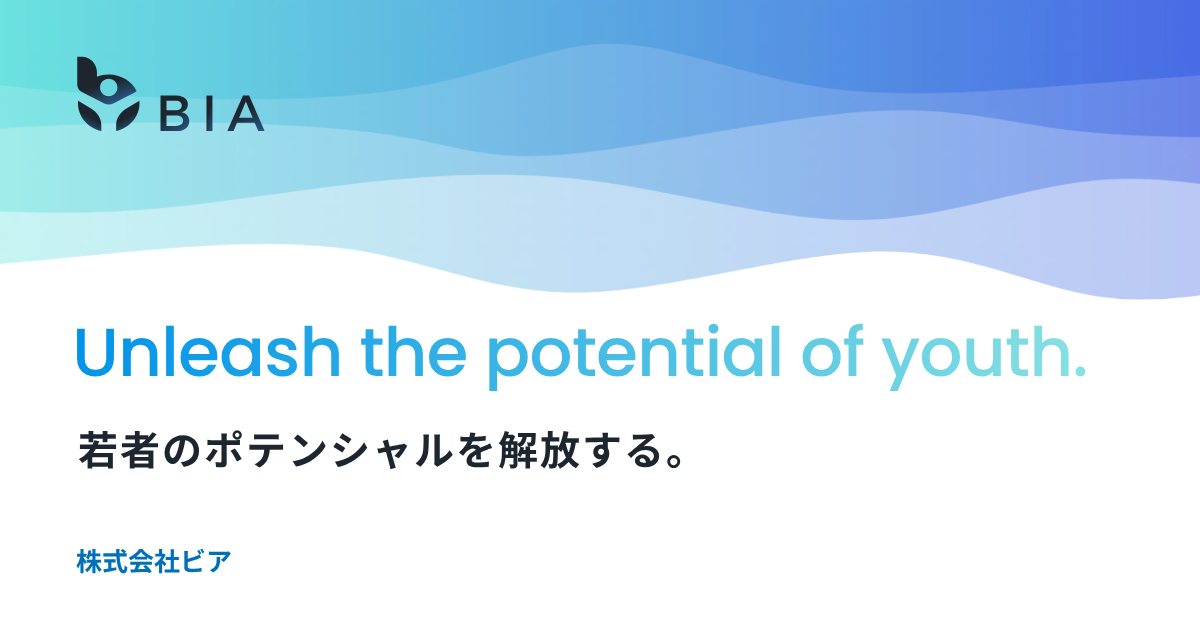
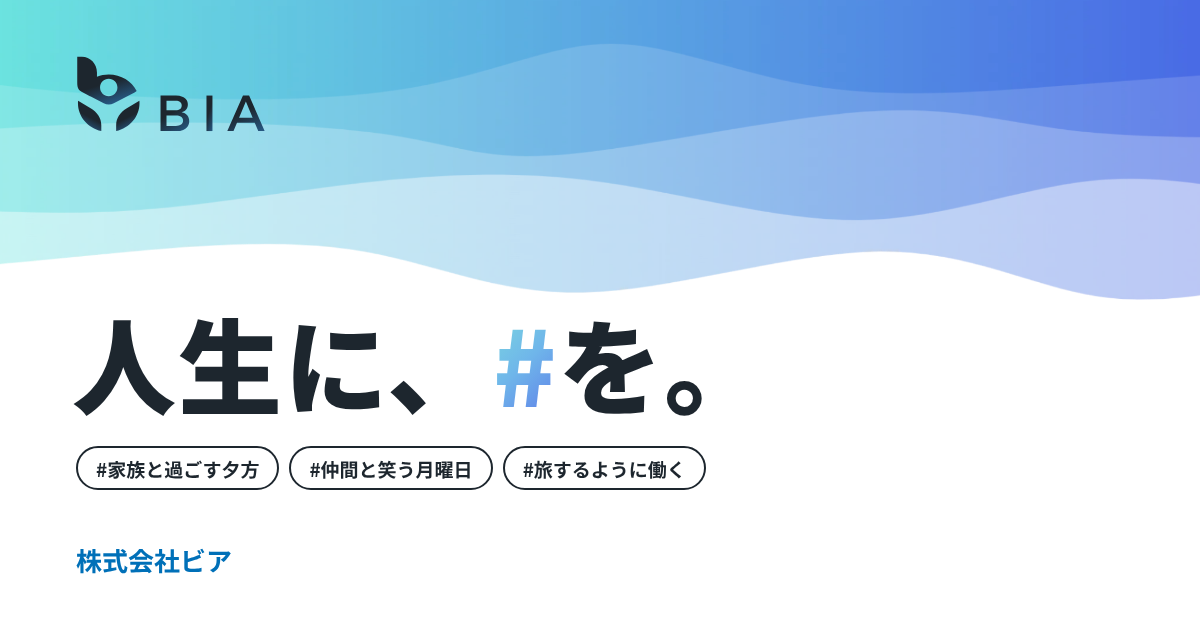
パーパス・ビジョン・ミッションを新しくする（人生に、#を。／Open market, open you.／地図は渡す。…）
- assets/philosophy.js：パーパス → ビジョン → ミッションの順。見出しと添える文、パーパスのハッシュタグ 3 つ（タグの見た目）、「#」はグラデーション
- 会社のトップの一番上・オープニング・会社概要の PURPOSE（前の長い説明の文は消す）・採用の PHILOSOPHY を新しい文に（assets/philosophy.css）
- 手で合わせる 3 か所：タブの名前「株式会社ビア｜人生に、#を。」・会社概要の meta・会社用 OGP
- 前のパーパス（若者のポテンシャルを解放する／Unleash the potential of youth.）をサイトから消す
- DESIGN-SPEC.md 16・17 章・HANDOFF.md

Claude-Session: https://claude.ai/code/session_01PMMetS7xVfNc5fbuo4o25V

Changed region(s): [[0.0617, 0.4825, 0.925, 0.7841]]

diff --git a/index.html b/index.html
@@ -3,13 +3,13 @@
 <head>
 <meta charset="utf-8">
 <meta name="viewport" content="width=device-width, initial-scale=1">
-<title>株式会社ビア｜若者のポテンシャルを解放する</title>
+<title>株式会社ビア｜人生に、#を。</title>
 <meta name="robots" content="noindex, nofollow">
 <meta name="description" content="株式会社ビアは、新卒・20代の就職・転職支援サービス「ハッシュタグ」と、企業向けの人材紹介・採用コンサルティングを行っています。">
 <link rel="canonical" href="https://bia-career.com/">
 <meta property="og:type" content="website">
 <meta property="og:site_name" content="株式会社ビア">
-<meta property="og:title" content="株式会社ビア｜若者のポテンシャルを解放する">
+<meta property="og:title" content="株式会社ビア｜人生に、#を。">
 <meta property="og:description" content="株式会社ビアは、新卒・20代の就職・転職支援サービス「ハッシュタグ」と、企業向けの人材紹介・採用コンサルティングを行っています。">
 <meta property="og:url" content="https://bia-career.com/">
 <meta property="og:image" content="https://bia-career.com/assets/ogp-bia.png">
@@ -26,6 +26,7 @@
 <link rel="stylesheet" href="/assets/header.css">
 <link rel="stylesheet" href="/assets/bia.css">
 <link rel="stylesheet" href="/assets/svc-card.css">
+<link rel="stylesheet" href="/assets/philosophy.css">
 <!-- オープニング（DESIGN-SPEC.md 16 章）。描く前に覆うため <head> で読む -->
 <script src="/assets/config.js"></script>
 <script src="/assets/intro-bia.js"></script>
@@ -54,19 +55,22 @@
   </div>
 </header>
   <div class="fv-copy">
-    <!-- 一番上はパーパス（文は assets/philosophy.js）。オープニングは下の日本語の行に入れ替わる -->
-    <h1 class="co-purpose"><span class="co-purpose-en" lang="en" data-philo="purpose-en">Unleash the potential of youth.</span><span class="co-purpose-ja" data-philo="purpose">若者のポテンシャルを解放する。</span></h1>
+    <!-- 一番上はパーパス（文は assets/philosophy.js）。オープニングはこの見出しに入れ替わる -->
+    <p class="co-en" lang="en">PURPOSE</p>
+    <h1 class="co-purpose" data-philo="purpose" data-philo-hash>人生に、<span class="g-hash">#</span>を。</h1>
+    <p class="philo-tags co-purpose-tags" data-philo="purpose-tags"><span class="tag">#家族と過ごす夕方</span><span class="tag">#仲間と笑う月曜日</span><span class="tag">#旅するように働く</span></p>
+    <p class="co-purpose-text" data-philo="purpose-text">人生に#があると、働くことは物語になる。</p>
   </div>
 </div>
 <main>
 <section id="philosophy">
   <div class="wrap">
     <div class="sec-head"><p class="en-big" aria-hidden="true">PHILOSOPHY</p><h2>私たちの考え方</h2></div>
-    <!-- 文は assets/philosophy.js の 1 か所で直す（採用ページにも同じ文が出る） -->
+    <!-- 文は assets/philosophy.js の 1 か所で直す（会社概要・採用ページにも同じ文が出る）。並びはパーパス → ビジョン → ミッション -->
     <dl class="co-philo">
-      <div class="card"><dt><span class="en" lang="en">PURPOSE</span>パーパス</dt><dd><span data-philo="purpose">若者のポテンシャルを解放する。</span><span class="co-philo-en" lang="en" data-philo="purpose-en">Unleash the potential of youth.</span></dd></div>
-      <div class="card"><dt><span class="en" lang="en">MISSION</span>ミッション</dt><dd data-philo="mission">一人ひとりの「叶えたい未来」を言葉にし、そこへ近づくキャリアを一緒につくる。</dd></div>
-      <div class="card"><dt><span class="en" lang="en">VISION</span>ビジョン</dt><dd data-philo="vision">20代が「自分の #」で仕事を選ぶのが、当たり前の社会へ。</dd></div>
+      <div class="card"><dt><span class="en" lang="en">PURPOSE</span>パーパス</dt><dd><p class="philo-h" data-philo="purpose" data-philo-hash>人生に、<span class="g-hash">#</span>を。</p><p class="philo-tags" data-philo="purpose-tags"><span class="tag">#家族と過ごす夕方</span><span class="tag">#仲間と笑う月曜日</span><span class="tag">#旅するように働く</span></p><p class="philo-t" data-philo="purpose-text">人生に#があると、働くことは物語になる。</p></dd></div>
+      <div class="card"><dt><span class="en" lang="en">VISION</span>ビジョン</dt><dd><p class="philo-h" lang="en" data-philo="vision">Open market, open you.</p><p class="philo-t" data-philo="vision-text">知らないから、選べなかった。見えないから、あきらめていた。<br>市場がひらけば、あなたはもっと遠くへ行ける。</p></dd></div>
+      <div class="card"><dt><span class="en" lang="en">MISSION</span>ミッション</dt><dd><p class="philo-h" data-philo="mission">地図は渡す。背中も押す。旅は、あなたが選ぶ。</p><p class="philo-t" data-philo="mission-text">求人の裏側も、自分の市場価値も、全部伝える。そのうえで決めるのは、いつもあなた。</p></dd></div>
     </dl>
   </div>
 </section>

diff --git a/company.html b/company.html
@@ -5,7 +5,7 @@
 <meta name="viewport" content="width=device-width, initial-scale=1">
 <title>会社概要｜株式会社ビア</title>
 <meta name="robots" content="noindex, nofollow">
-<meta name="description" content="株式会社ビアの会社概要。若者のポテンシャルを解放する。新卒・20代の就職・転職支援サービス「ハッシュタグ」を運営しています。">
+<meta name="description" content="株式会社ビアの会社概要。人生に、#を。新卒・20代の就職・転職支援サービス「ハッシュタグ」を運営しています。">
 <link rel="icon" href="/assets/hashtag-icon.svg" type="image/svg+xml">
 <link rel="icon" href="/assets/favicon-32.png" sizes="32x32" type="image/png">
 <link rel="apple-touch-icon" href="/assets/apple-touch-icon.png">
@@ -13,14 +13,14 @@
 <meta property="og:type" content="article">
 <meta property="og:site_name" content="株式会社ビア">
 <meta property="og:title" content="会社概要｜株式会社ビア">
-<meta property="og:description" content="株式会社ビアの会社概要。若者のポテンシャルを解放する。新卒・20代の就職・転職支援サービス「ハッシュタグ」を運営しています。">
+<meta property="og:description" content="株式会社ビアの会社概要。人生に、#を。新卒・20代の就職・転職支援サービス「ハッシュタグ」を運営しています。">
 <meta property="og:url" content="https://bia-career.com/company.html">
 <meta property="og:image" content="https://bia-career.com/assets/ogp-bia.png">
 <meta property="og:locale" content="ja_JP">
 <meta name="twitter:card" content="summary_large_image">
 <link href="https://fonts.googleapis.com/css2?family=Noto+Sans+JP:wght@400;700;900&family=Poppins:wght@400;500;600&display=swap" rel="stylesheet">
 <style>
-/* 会社概要（BIA）のページ。一番上の「Unleash the potential of youth.」は 2026-11 に会社のトップへ移した。ここは波・ロゴ → パーパスから始まる */
+/* 会社概要（BIA）のページ。波・ロゴ → パーパス（文は assets/philosophy.js）から始まる */
 :root{--navy:#1D262E;--caret:#6FD6E6;--caret-on-white:#0093E9;--ink:#1D262E;--sub:#4A5560;--muted:#5F6B76;--bg2:#F3F6F8;--line:#E3EAEF;
   --g-text:linear-gradient(90deg,#0093E9 0%,#87E1E1 100%)}
 *{box-sizing:border-box}
@@ -105,6 +105,7 @@ body{background:#F4F6F8}
 <link rel="preload" href="/assets/fonts/jetbrains-mono-latin-500-normal.woff2" as="font" type="font/woff2" crossorigin>
 <link rel="stylesheet" href="/assets/header.css">
 <link rel="stylesheet" href="/assets/svc-card.css">
+<link rel="stylesheet" href="/assets/philosophy.css">
 </head>
 <body>
 <div class="fv">
@@ -133,9 +134,12 @@ body{background:#F4F6F8}
 <section id="purpose" style="padding-top:clamp(120px,12vw,160px)">
   <div class="wrap">
     <div class="sec-head"><p class="en-big" aria-hidden="true">PURPOSE</p><h2>パーパス</h2></div>
-    <!-- パーパスの文は assets/philosophy.js（全サイトで 1 か所） -->
-    <p class="vision" data-philo="purpose">若者のポテンシャルを解放する。</p>
-    <p class="body">私たちは、若者が持つ無限の可能性に光を当て、それを解放するために存在しています。各々が持つユニークな才能やスキルを見出し、育て、そして若者一人ひとりを適切な場所に導くことで、若者自身も社会もより良い未来を築くことができると信じています。私たちの役割は、単に仕事を紹介すること以上に、若者一人ひとりがその真の力を理解し、活かせるよう支援することです。この存在意義のもとで、私たちは情熱を持って取り組んでまいります。</p>
+    <!-- パーパスの文は assets/philosophy.js（全サイトで 1 か所）。前の長い説明の文は 2026-11 に消した -->
+    <div class="philo-lg">
+      <p class="philo-h" data-philo="purpose" data-philo-hash>人生に、<span class="g-hash">#</span>を。</p>
+      <p class="philo-tags" data-philo="purpose-tags"><span class="tag">#家族と過ごす夕方</span><span class="tag">#仲間と笑う月曜日</span><span class="tag">#旅するように働く</span></p>
+      <p class="philo-t" data-philo="purpose-text">人生に#があると、働くことは物語になる。</p>
+    </div>
   </div>
 </section>
 <section id="service" class="alt">

diff --git a/assets/intro-bia.js b/assets/intro-bia.js
@@ -1,10 +1,10 @@
 // 会社のトップ（index.html）のオープニング。決まりは docs/DESIGN-SPEC.md 16 章
-// - 白い画面に BIA のロゴがふわっと出る → パーパス（若者のポテンシャルを解放する。）を水色のカーソルで 1 文字ずつ打ち込む → その文字が一番上の日本語の行へ動いて入れ替わる（約 3 秒）
+// - 白い画面に BIA のロゴがふわっと出る → パーパス（人生に、#を。）を水色のカーソルで 1 文字ずつ打ち込む → その文字が一番上の見出しへ動いて入れ替わる（約 3 秒）
 // - assets/config.js の BIA_INTRO：'type'（出す）／'off'（出さない）
 // - 同じタブで 1 回だけ（sessionStorage。使えないときは出さない）。同じサイトから来た・戻ったときは出さない
 // - 画面を押す・キーを押すとすぐ飛ばす。動きを減らす設定・JS が動かないときは出さない。3.5 秒を超えて止めない
 // - /?intro=1 で強制で見られる
-// 打ち込む文字はパーパス（.co-purpose-ja・2026-11 にビジョンから変更）。その行と同じ大きさ・同じ幅・同じ改行で作り、縮めて真ん中に置く。最後は縮めたのを戻すだけなので、改行がずれない
+// 打ち込む文字はパーパス（h1.co-purpose。文は assets/philosophy.js）。「#」は見出しと同じグラデーションで打つ。その行と同じ大きさ・同じ幅・同じ改行で作り、縮めて真ん中に置く。最後は縮めたのを戻すだけなので、改行がずれない
 // このファイルは <head> で読む（ページが描かれる前に、地の色で覆うため。覆いは site.css の html.intro-on）
 (function () {
   var root = document.documentElement;
@@ -42,7 +42,7 @@
 
   function start() {
     if (done) return;
-    var h1 = document.querySelector('.co-purpose-ja');
+    var h1 = document.querySelector('.co-purpose');
     if (!h1 || Date.now() - t0 > 800) { finish(0); return; } // 準備に時間がかかったときは出さない
     later(function () { finish(200); }, 3300); // 何があっても 3.5 秒で終わる
 
@@ -72,7 +72,7 @@
     // 0.1 秒：ロゴがふわっと出る → 0.6 秒：打ち込む（1 文字 45ms）
     later(function () { wrap.classList.add('bintro-in'); }, 100);
     var chars = Array.from(text), step = Math.min(45, 1300 / Math.max(1, chars.length));
-    chars.forEach(function (c, i) { later(function () { typed.textContent = chars.slice(0, i + 1).join(''); }, 600 + step * (i + 1)); });
+    chars.forEach(function (c, i) { later(function () { typed.innerHTML = chars.slice(0, i + 1).join('').replace(/[&<>]/g, function (x) { return { '&': '&amp;', '<': '&lt;', '>': '&gt;' }[x]; }).replace(/#/g, '<span class="g-hash">#</span>'); }, 600 + step * (i + 1)); });
     var endType = 600 + step * chars.length;
     // 打ち終わって 0.2 秒：見出しの位置へ 0.6 秒で動く（ロゴは消える）→ 地の色を 0.3 秒で消して、見出しと入れ替わる
     later(function () { wrap.classList.add('bintro-fly'); box.style.transform = 'none'; }, endType + 200);

diff --git a/assets/philosophy.js b/assets/philosophy.js
@@ -1,16 +1,28 @@
-// パーパス・ミッション・ビジョン（会社のトップ・採用ページの両方に出る）。直すのはここ 1 か所だけ
-// ページの中の data-philo="purpose" などの文字を、ここの文に入れ替える（HTML に書いてある文は JS が動かないとき用）
-// 2026-11 時点では「仮。あとで調整」（docs/HANDOFF.md）
+// パーパス・ビジョン・ミッション（会社のトップ・会社概要・採用ページに出る）。直すのはここ 1 か所だけ（2026-11 廣瀬さんの決定）
+// 並びは「パーパス → ビジョン → ミッション」（なぜ → どこへ → 何を）。見出しは大きく、添える文は小さく
+// ページの中の data-philo="purpose" などの所を、ここの文に入れ替える（HTML に書いてある文は JS が動かないとき用）
+// - 文の中の改行（\n）は、そのまま改行で出す
+// - 配列（purpose-tags）は、線だけの丸長方形のハッシュタグ（.tag）で並べる
+// - data-philo-hash が付いた所は「#」をサイトのグラデーションの # にする（大見出しの決まり。DESIGN-SPEC.md 9 章の 2）
+// ※ 変えるときは、手で合わせる 3 か所も直す：会社のトップのタブの名前（title・og:title）・会社概要の meta・会社用の OGP の画像（DESIGN-SPEC.md 17 章）
 window.BIA_PHILOSOPHY = {
-  'purpose': '若者のポテンシャルを解放する。',
-  'purpose-en': 'Unleash the potential of youth.',
-  'mission': '一人ひとりの「叶えたい未来」を言葉にし、そこへ近づくキャリアを一緒につくる。',
-  'vision': '20代が「自分の #」で仕事を選ぶのが、当たり前の社会へ。'
+  'purpose': '人生に、#を。',
+  'purpose-tags': ['家族と過ごす夕方', '仲間と笑う月曜日', '旅するように働く'],
+  'purpose-text': '人生に#があると、働くことは物語になる。',
+  'vision': 'Open market, open you.',
+  'vision-text': '知らないから、選べなかった。見えないから、あきらめていた。\n市場がひらけば、あなたはもっと遠くへ行ける。',
+  'mission': '地図は渡す。背中も押す。旅は、あなたが選ぶ。',
+  'mission-text': '求人の裏側も、自分の市場価値も、全部伝える。そのうえで決めるのは、いつもあなた。'
 };
 (function () {
   var p = window.BIA_PHILOSOPHY;
+  function esc(s) { return String(s).replace(/[&<>"']/g, function (c) { return { '&': '&amp;', '<': '&lt;', '>': '&gt;', '"': '&quot;', "'": '&#39;' }[c]; }); }
   document.querySelectorAll('[data-philo]').forEach(function (el) {
-    var t = p[el.getAttribute('data-philo')];
-    if (t) el.textContent = t;
+    var v = p[el.getAttribute('data-philo')];
+    if (v == null) return;
+    if (Array.isArray(v)) { el.innerHTML = v.map(function (t) { return '<span class="tag">#' + esc(t) + '</span>'; }).join(''); return; }
+    var h = esc(v).replace(/\n/g, '<br>');
+    if (el.hasAttribute('data-philo-hash')) h = h.replace(/#/g, '<span class="g-hash">#</span>');
+    el.innerHTML = h;
   });
 })();

diff --git a/recruit.html b/recruit.html
@@ -26,6 +26,7 @@
 <link rel="stylesheet" href="/assets/header.css">
 <link rel="stylesheet" href="/assets/recruit.css">
 <link rel="stylesheet" href="/assets/svc-card.css">
+<link rel="stylesheet" href="/assets/philosophy.css">
 </head>
 <body>
 <!-- 採用ページ（BIA のページ）。決まりは docs/DESIGN-SPEC.md 12 章。【仮】の所は、決まったら文を差し替える -->
@@ -71,10 +72,11 @@
 <section id="philosophy" data-toc="philosophy">
   <div class="sec-head"><p class="en-big" aria-hidden="true">PHILOSOPHY</p><h2>私たちの考え方</h2></div>
   <dl class="rc-philo">
-    <div class="card"><dt><span class="en" lang="en">PURPOSE</span>パーパス</dt><dd><span data-philo="purpose">若者のポテンシャルを解放する。</span><span class="rc-philo-en" lang="en" data-philo="purpose-en">Unleash the potential of youth.</span></dd></div>
-    <div class="card"><dt><span class="en" lang="en">MISSION</span>ミッション</dt><dd data-philo="mission">一人ひとりの「叶えたい未来」を言葉にし、そこへ近づくキャリアを一緒につくる。</dd></div>
-    <div class="card"><dt><span class="en" lang="en">VISION</span>ビジョン</dt><dd data-philo="vision">20代が「自分の #」で仕事を選ぶのが、当たり前の社会へ。</dd></div>
+    <div class="card"><dt><span class="en" lang="en">PURPOSE</span>パーパス</dt><dd><p class="philo-h" data-philo="purpose" data-philo-hash>人生に、<span class="g-hash">#</span>を。</p><p class="philo-tags" data-philo="purpose-tags"><span class="tag">#家族と過ごす夕方</span><span class="tag">#仲間と笑う月曜日</span><span class="tag">#旅するように働く</span></p><p class="philo-t" data-philo="purpose-text">人生に#があると、働くことは物語になる。</p></dd></div>
+    <div class="card"><dt><span class="en" lang="en">VISION</span>ビジョン</dt><dd><p class="philo-h" lang="en" data-philo="vision">Open market, open you.</p><p class="philo-t" data-philo="vision-text">知らないから、選べなかった。見えないから、あきらめていた。<br>市場がひらけば、あなたはもっと遠くへ行ける。</p></dd></div>
+    <div class="card"><dt><span class="en" lang="en">MISSION</span>ミッション</dt><dd><p class="philo-h" data-philo="mission">地図は渡す。背中も押す。旅は、あなたが選ぶ。</p><p class="philo-t" data-philo="mission-text">求人の裏側も、自分の市場価値も、全部伝える。そのうえで決めるのは、いつもあなた。</p></dd></div>
   </dl>
+
 </section>
 
 <!-- ===== 働く魅力（私たちの考え方のあと） ===== -->

diff --git a/assets/bia.css b/assets/bia.css
@@ -4,11 +4,11 @@
 .fv-wave{position:absolute;inset:0 0 auto 0;height:clamp(165px,16.8vw,320px);background:image-set(url(/assets/wave-1200.webp) 1x,url(/assets/wave-2400.webp) 2x) center top/cover no-repeat;transform:rotate(180deg);pointer-events:none}
 .fv-copy{position:relative;z-index:1;max-width:1200px;margin:0 auto;padding:clamp(80px,8.5vw,136px) 24px 56px}
 .co-en{margin:0 0 14px;font-family:Poppins,sans-serif;font-weight:500;font-size:14px;letter-spacing:3px;color:var(--muted)}
-/* 一番上：パーパス（英語を大きく・その下に日本語）。運営会社のページにあった形をトップへ（2026-11） */
-.co-purpose{margin:0}
-.co-purpose-en{display:block;max-width:7.2em;font-family:Poppins,sans-serif;font-weight:500;font-size:clamp(52px,10.4vw,136px);line-height:1.07;letter-spacing:-.5px;
-  background:linear-gradient(90deg,#0093E9 0%,#87E1E1 100%);-webkit-background-clip:text;background-clip:text;color:transparent;-webkit-text-fill-color:transparent;padding-bottom:.06em}
-.co-purpose-ja{display:block;margin-top:24px;font-size:clamp(20px,2.2vw,28px);font-weight:700;letter-spacing:.04em;line-height:1.5;color:var(--navy)}
+/* 一番上：パーパス「人生に、#を。」を大きく（# はグラデーション）→ ハッシュタグ 3 つ → 添える文（文は assets/philosophy.js。2026-11） */
+.co-purpose{margin:0;font-size:clamp(44px,8vw,104px);font-weight:900;line-height:1.25;letter-spacing:1px;color:var(--navy)}
+.co-purpose-tags{margin-top:28px}
+.co-purpose-tags .tag{height:36px;padding:0 16px;font-size:14px}
+.co-purpose-text{margin:18px 0 0;font-size:clamp(16px,1.6vw,19px);font-weight:700;line-height:1.7;color:var(--navy)}
 /* 私たちの考え方 */
 .co-philo{display:grid;gap:16px;grid-template-columns:repeat(3,minmax(0,1fr));margin:0}
 .co-philo dt{font-size:16px;font-weight:900}

diff --git a/assets/philosophy.css b/assets/philosophy.css
@@ -1,0 +1,13 @@
+/* ===== パーパス・ビジョン・ミッションの見た目（会社のトップ・会社概要・採用ページ。文は assets/philosophy.js）2026-11 =====
+   見出しは大きく、添える文は小さく。パーパスの「#」の 3 つは、線だけの丸長方形のハッシュタグ（本人のハッシュタグの見た目） */
+.philo-h,.card .philo-h{margin:0;font-size:22px;font-weight:900;line-height:1.5;color:#1D262E}
+.philo-h[lang="en"],.card .philo-h[lang="en"]{font-family:Poppins,sans-serif;font-weight:600;letter-spacing:-.2px}
+.philo-tags,.card .philo-tags{display:flex;flex-wrap:wrap;gap:8px;margin:14px 0 0}
+.philo-tags .tag{display:inline-flex;align-items:center;height:32px;padding:0 13px;border-radius:999px;border:1.5px solid #1D262E;background:#fff;font-size:13px;font-weight:700;color:#1D262E}
+.philo-t,.card .philo-t{margin:12px 0 0;font-size:14px;font-weight:400;line-height:1.8;color:#4A5560}
+.philo-h .g-hash,.co-purpose .g-hash{background:linear-gradient(135deg,#7FE3DC 0%,#6FB6EA 50%,#5A6FE8 100%);-webkit-background-clip:text;background-clip:text;color:transparent;-webkit-text-fill-color:transparent;padding-right:.04em}
+/* .card p（site.css）より強くするため、.card .philo-… も書く */
+/* 会社概要の PURPOSE（大きめ） */
+.philo-lg .philo-h{font-size:clamp(30px,4vw,44px)}
+.philo-lg .philo-t{font-size:16px}
+.philo-lg .philo-tags .tag{height:36px;padding:0 16px;font-size:14px}

diff --git a/docs/DESIGN-SPEC.md b/docs/DESIGN-SPEC.md
@@ -67,7 +67,7 @@
 - **今の BIA の波の画像（wave.webp、2400×507）をそのまま使う。** 描き直さない。
 - トップの一番上に、上下を反転して敷く（濃い方が上、白に溶ける方が下。高さ 300px、object-fit: cover）。その上に #hashtag のロゴと白い丸長方形のメニューを載せる（見本どおり）。ロゴの下の説明の 1 行は白文字＋薄い影。
 - 「# の先は、あなたが決める。」は波の下の白い地から始める。
-- BIA の「Unleash the potential of youth.／若者のポテンシャルを解放する」は、運営会社（BIA）のページの一番上に、今のサイトと同じ形（同じ波の下）で置く。
+- （2026-11 まで）BIA の「Unleash the potential of youth.／若者のポテンシャルを解放する」を運営会社のページの一番上に置いていた。**今のパーパスは「人生に、#を。」**（17 章）
 - スマホ：メニューは白い丸長方形をやめ、右上のメニューボタン（≡）で開く形にする。ロゴは左上に小さく（高さ 40px 程度）。見本の 390px の画面はメニューが詰まっているので、そこだけ直す。
 
 ## 8. 守ること
@@ -207,8 +207,8 @@
 1. **トップ（`/`）は株式会社ビアの会社サイト**。ハッシュタグは「事業の 1 つ」のサービスページで、`/hashtag/` の下にまとめる。事業はハッシュタグ（求職者向け）と企業向けの人材紹介の 2 つだけ
    - 会社のページ：`/`（index.html）・`/company.html`（会社概要）・`/recruit.html`（採用）・`/corp.html`（企業の方へ）・`/contact.html`（お問い合わせ）・`/privacy`・404
    - ハッシュタグのページ：`/hashtag/`（index。「ハッシュタグとは」は 2026-11 にここの `#about` へまとめた）・`jobs`・`job`・`faq`・`booking`・`column`（どれも `/hashtag/○○.html`）
-2. **会社のトップ**（index.html・`assets/bia.css`）：一番上は波＋BIA のロゴ＋**パーパス**（「Unleash the potential of youth.」を大きなグラデーションの英語で、その下に「若者のポテンシャルを解放する。」。2026-11 に会社概要のページから移した）→ 私たちの考え方（パーパス・ミッション・ビジョン）→ 事業紹介（**ハッシュタグの大きなカード 1 枚**：大きな #hashtag のロゴ・説明、その中に入口を 2 つ「求職者の方 → `/hashtag/`」「企業の方 → `/corp.html`」。ハッシュタグは求職者向け・企業向けの両方を持つ 1 つのサービスなので、別のサービスが 2 つに見えないようにする）→ 採用への案内の帯（「一緒に働く仲間を募集しています」→ `/recruit.html`）→ フッター。お知らせ（ニュース）は作らない。**会社のトップのオープニング**（`assets/intro-bia.js`・`bia.css` の最後。config の `BIA_INTRO`）：地 #F4F6F8 に BIA のロゴがふわっと（0.4 秒）→ パーパス（若者のポテンシャルを解放する。）を水色のカーソルで 1 文字ずつ（45ms）→ その文字が一番上の日本語の行の位置へ 0.6 秒で動いて入れ替わる → 地が消える（約 3 秒）。打ち込む文字は見出しと同じ大きさ・幅・改行の箱を縮めて真ん中に置き、最後に縮めたのを戻すだけ（改行がずれない）。決まりはハッシュタグのオープニングと同じ（同じタブで 1 回・同じサイトから来た／戻ったとき・動きを減らす設定・JS なしでは出さない・押すと飛ばす・3.5 秒まで・`/?intro=1` で強制）。会社のトップ → ハッシュタグに入ったときは、ハッシュタグのオープニングは出ない
-3. **パーパス・ミッション・ビジョンは `assets/philosophy.js` の 1 か所**。`data-philo="purpose"`・`"purpose-en"`・`"mission"`・`"vision"` の文字を入れ替える（会社のトップ・採用ページ）。HTML に書いてある文は JS が動かないとき用
+2. **会社のトップ**（index.html・`assets/bia.css`）：一番上は波＋BIA のロゴ＋**パーパス「人生に、#を。」**（大きく。「#」はグラデーション）＋ハッシュタグ 3 つ＋添える文 → 私たちの考え方（パーパス → ビジョン → ミッション）→ 事業紹介 → 採用への案内の帯 → フッター。お知らせ（ニュース）は作らない。**会社のトップのオープニング**（`assets/intro-bia.js`・`bia.css` の最後。config の `BIA_INTRO`）：地 #F4F6F8 に BIA のロゴがふわっと（0.4 秒）→ パーパス「人生に、#を。」を水色のカーソルで 1 文字ずつ（「#」はグラデーション）→ 一番上の見出しの位置へ 0.6 秒で動いて入れ替わる → 地が消える（約 3 秒）。打ち込む文字は見出しと同じ大きさ・幅・改行の箱を縮めて真ん中に置き、最後に縮めたのを戻すだけ（改行がずれない）。決まりはハッシュタグのオープニングと同じ（同じタブで 1 回・同じサイトから来た／戻ったとき・動きを減らす設定・JS なしでは出さない・押すと飛ばす・3.5 秒まで・`/?intro=1` で強制）
+3. **パーパス・ビジョン・ミッションは `assets/philosophy.js` の 1 か所**（17 章の 1）。見た目は `assets/philosophy.css`（会社のトップ・会社概要・採用ページ）
 4. **ヘッダーは 2 種類**（`header.css` の最後）
    - 会社のページ（`.hd-co`）：BIA のロゴ（→ `/`）／SERVICE ▼（ハッシュタグ・企業の方へ）・ABOUT US（会社概要）・RECRUIT（採用情報）／右上「お問い合わせ」→ `/contact.html`（採用ページだけ「エントリー」→ 応募フォーム）
    - ハッシュタグのページ（`.hd-ht`）：**ヘッダーは会社のページと同じ BIA のロゴだけ（位置・大きさは全く同じ。→ `/`）**（2026-11 案 A に決定）／日本語のメニュー（ハッシュタグとは・支援の流れ・求人を探す・よくある質問）／右上「無料でキャリア相談」／スマホのメニューの一番下「運営：株式会社ビア →」
@@ -223,15 +223,19 @@
 7. **転送**（`/` にクエリが付いて来ても転送しない。`/` は常に会社のトップ。2026-11 廣瀬さん：公開前で、古い行き先の広告が無いため）：`netlify.toml` で古い URL（`/about.html`・`/jobs.html`・`/job.html`・`/faq.html`・`/booking.html`・`/column.html` と拡張子なしの形）→ `/hashtag/…` に 301（クエリはそのまま付く）。`/` は転送しない
 8. `BOOKING_URL`（`/booking.html`）・`LINE_URL`・`RECRUIT_ENTRY_URL` は変えない（`/booking.html` は転送で `/hashtag/booking.html` へ。`?from=` も残る）
 9. sitemap.xml・canonical・og:url は新しい URL。構造化データ：Organization は会社のトップ、FAQPage は `/hashtag/faq.html`。JobPosting は今は無い（求人が例のため）。本物の求人が Caddie から来たら `/hashtag/job.html` に入れる
-10. **OGP の画像**：会社のページ（`/`・company・recruit・corp・contact・privacy・404）は `assets/ogp-bia.png`（1200×630：波・BIA のロゴ・「Unleash the potential of youth.」・「若者のポテンシャルを解放する。」・株式会社ビア）。ハッシュタグのページは今までの `assets/ogp.png`
+10. **OGP の画像**：会社のページ（`/`・company・recruit・corp・contact・privacy・404）は `assets/ogp-bia.png`（1200×630：波・BIA のロゴ・「人生に、#を。」・ハッシュタグ 3 つ・株式会社ビア）。ハッシュタグのページは `assets/ogp.png`（新卒・20代の就職・転職支援／運営：株式会社ビア）
 11. **スマホの下の固定ボタン**は会社のページには出さない。採用ページの右上は「エントリー」、ほかの会社のページは「お問い合わせ」
 12. **「無料でキャリア相談」を一番目立つボタンに**（ハッシュタグのページだけ。`.btn-cta`・site.css の最後）：濃紺のロゴと差をつける明るいグラデーション＋軽い影＋右に「→」。マウスを乗せると少し明るく浮く。**文字は濃紺**（白い文字は明るい色の上で 4.5:1 に届かないため。濃紺なら 5.8〜10:1）。ヘッダー・ファーストビュー・面談で持ち帰れる 3 つ・ページ下の帯・スマホの下の固定ボタン・求人ページ・0 件のときのボタンに使う。「求人を見る」などほかのボタン、会社のページの「お問い合わせ」は今のまま
    - **色（決定）**：水色 → 紫寄りの青（サイトの波の色）`linear-gradient(100deg, #7FE3DC 0%, #6FB6EA 55%, #8A9AF2 100%)`、影 `rgba(90,111,232,.32)`。**文字は濃紺 #1D262E**（コントラスト：#7FE3DC 10.2:1・#6FB6EA 7.0:1・#8A9AF2 5.8:1）
 
 ## 17. 言葉の決まり（2026-11。廣瀬さんの決定と全体の添削）
 
-1. **パーパス・ミッション・ビジョン**は `assets/philosophy.js` の 1 か所だけが正（会社のトップ・会社概要・採用ページの文は `data-philo` で入れ替わる）。**パーパス＝若者のポテンシャルを解放する。（Unleash the potential of youth.）**。会社概要のページの見出しも「PURPOSE パーパス」
-   - **パーパスを変えるときは、この 3 か所も手で合わせる**（JS で入れ替えられないため。廣瀬さんの OK）：① 会社のトップのタブの名前（title・og:title）② 会社概要の meta（description・og:description）③ 会社用の OGP の画像（`assets/ogp-bia.png`）。オープニングは会社のトップの日本語の行をそのまま打ち込むので、合わせなくてよい
+1. **パーパス・ビジョン・ミッション**は `assets/philosophy.js` の 1 か所だけが正（2026-11 廣瀬さんの決定）。並びは **パーパス → ビジョン → ミッション**（なぜ → どこへ → 何を）。見出しは大きく、添える文は小さく
+   - **PURPOSE パーパス**：見出し「人生に、#を。」／ハッシュタグ 3 つ「#家族と過ごす夕方　#仲間と笑う月曜日　#旅するように働く」（線だけの丸長方形のタグ）／添える文「人生に#があると、働くことは物語になる。」
+   - **VISION ビジョン**：見出し「Open market, open you.」／添える文「知らないから、選べなかった。見えないから、あきらめていた。（改行）市場がひらけば、あなたはもっと遠くへ行ける。」
+   - **MISSION ミッション**：見出し「地図は渡す。背中も押す。旅は、あなたが選ぶ。」／添える文「求人の裏側も、自分の市場価値も、全部伝える。そのうえで決めるのは、いつもあなた。」
+   - ページの中の `data-philo="purpose"`・`purpose-tags`・`purpose-text`・`vision`・`vision-text`・`mission`・`mission-text` の所が入れ替わる（`data-philo-hash` が付いた所は「#」をグラデーションに）。会社のトップの一番上・会社概要の PURPOSE（前の長い説明の文は消した）・採用ページの PHILOSOPHY
+   - **パーパスを変えるときは、この 3 か所も手で合わせる**（JS で入れ替えられないため。廣瀬さんの OK）：① 会社のトップのタブの名前（title・og:title。今は「株式会社ビア｜人生に、#を。」）② 会社概要の meta（description・og:description）③ 会社用の OGP の画像（`assets/ogp-bia.png`）。オープニングは会社のトップの見出しをそのまま打ち込むので、合わせなくてよい
 2. **求職者向け**は「**新卒・20代の就職・転職支援**」（ハッシュタグのロゴの下・トップの事業紹介・会社概要・採用・フッター・title・meta・og:site_name）。説明の文は「新卒・20代のための就職・転職支援サービス」。第二新卒・既卒・フリーターは説明の文の中で書く
 3. **企業向け**は「**人材紹介・採用コンサルティング**」（メニュー・フッターの「企業の方へ（人材紹介・採用コンサルティング）」、会社概要・採用の「人材紹介・採用コンサルティング（企業の方へ）」、トップの入口、お問い合わせ）
 4. **事業紹介は 3 ページとも同じ部品**（会社のトップ・会社概要・採用ページ。`assets/svc-card.css`）：ハッシュタグ 1 つの大きなカードに、入口が 2 つ（求職者の方 → `/hashtag/`・企業の方 → `/corp.html`）。説明の文は「求職者の『叶えたい未来』と、企業の採用をつなぐサービスです。新卒・第二新卒・既卒・フリーターの方にはキャリア設計から始める就職・転職支援を、企業には人材紹介・採用コンサルティングを行います。」（2026-11 廣瀬さんの決定。カード 2 枚の形はやめた）

diff --git a/docs/HANDOFF.md b/docs/HANDOFF.md
@@ -96,17 +96,18 @@
 - 「無料でキャリア相談」を一番目立つボタンに（`.btn-cta`）。**色は水色 → 紫寄りの青（波の色。廣瀬さんの決定）：#7FE3DC → #6FB6EA → #8A9AF2、文字は濃紺 #1D262E**。軽い影・右に →・マウスで少し浮く
 
 ### PR #11（会社のトップの並び・会社概要・言葉をそろえる・全体の添削。マージ待ち）
-- 会社のトップの一番上をパーパス（Unleash the potential of youth.／若者のポテンシャルを解放する。）に。オープニング・会社用の OGP もパーパスに
+- 会社のトップの一番上をパーパスに（2026-11 に「人生に、#を。」へ変更。下の PR #11 の追加）。オープニング・会社用の OGP もパーパスに
 - 会社概要：一番上の大きなブロックを消し、「PURPOSE パーパス」から始める。タブの名前は「会社概要｜株式会社ビア」
 - 言葉の決まり（DESIGN-SPEC.md 17 章）：求職者向け「新卒・20代の就職・転職支援」、企業向け「人材紹介・採用コンサルティング」、パーパス・ミッション・ビジョンは `assets/philosophy.js` だけ
 - PR #11 の答え：ハッシュタグの OGP を作り直す（運営：株式会社ビア）／事業紹介は 3 ページともハッシュタグ 1 つのカードに入口 2 つ（`assets/svc-card.css`）／「20代」は全部詰める／パーパスを変えるときは title・meta・OGP の 3 か所も手で／相談の帯の LINE ボタンを全部のハッシュタグのページに／「弊社」→「私たち」／会社概要の「彼ら」→「若者一人ひとり」
 - PR #11 の追加：「ハッシュタグとは」のページをなくし `/hashtag/#about` にまとめた（違い・4 ステップは「くわしく見る」で開く）。古い URL は 301。事業紹介の入口のマウスの動きを柔らかく（淡いグラデーション・浮く・矢印）
+- PR #11 の追加：**パーパス・ビジョン・ミッションを新しく**（廣瀬さんの決定。並びはパーパス → ビジョン → ミッション）。会社のトップの一番上・オープニング・会社概要・採用・タブの名前・meta・会社用 OGP を「人生に、#を。」に。前のパーパス（若者のポテンシャルを解放する）はサイトから消した
 
 ## 4. まだのこと
 
 1. **採用ページの仮のもの**（入っているが、あとで調整するかもしれない。【仮】の印は付けていない）
    - 数字から見るカルチャーの「約 27 歳｜平均年齢」「約 60%｜20代の割合」
-   - パーパス：若者のポテンシャルを解放する。（Unleash the potential of youth.）／ミッション：一人ひとりの「叶えたい未来」を言葉にし、そこへ近づくキャリアを一緒につくる。／ビジョン：20代が「自分の #」で仕事を選ぶのが、当たり前の社会へ。
+   - パーパス・ビジョン・ミッション（2026-11 に新しくした。`assets/philosophy.js`・DESIGN-SPEC.md 17 章）：パーパス「人生に、#を。」／ビジョン「Open market, open you.」／ミッション「地図は渡す。背中も押す。旅は、あなたが選ぶ。」
    - 働く魅力（3 つ）
 2. **写真の使用許可は確認中**（採用ページのオフィスの写真 4 枚）。許可が取れなかったときは、`recruit.html` の `.rc-gallery` を消す
 3. **応募は Google フォーム**（https://forms.gle/y8prBTsdwqu2tVwK9。持ち主は a.h@bia-career.com）。新卒・中途とも同じ URL を `assets/config.js` の `RECRUIT_ENTRY_URL` に入れてある。**あとで社内システム（人事の機能）に作り替える予定**（そのときは `RECRUIT_ENTRY_URL` を書き換えるだけ）
